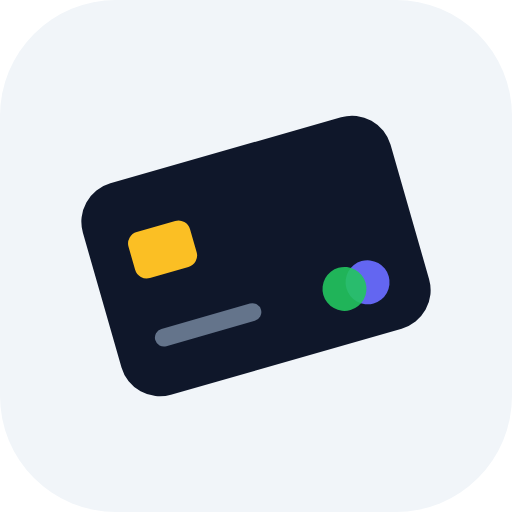
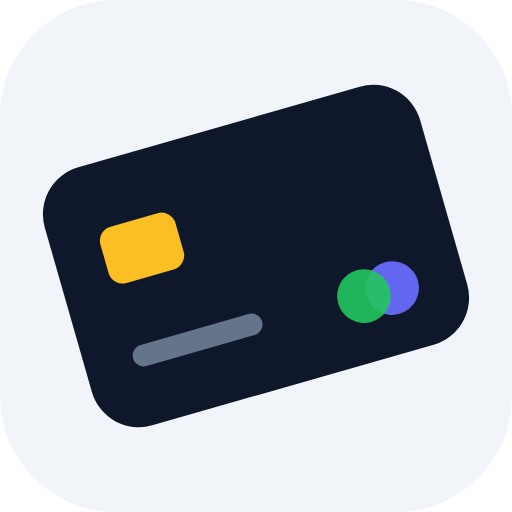
Ícone: cartão maior, preenchendo melhor o quadro
Claude-Session: https://claude.ai/code/session_01Ppk8Xpu5b38pj4Ww3rEKpo

Changed region(s): [[0.0625, 0.1562, 0.9375, 0.8438]]

diff --git a/sw.js b/sw.js
@@ -2,7 +2,7 @@
 // - App shell: pré-cache; HTML/JS/CSS usam "rede primeiro" para que atualizações cheguem na hora.
 // - Demais arquivos estáticos e CDNs (fontes, Firebase SDK): "stale-while-revalidate".
 // - Chamadas de API (Firestore, Auth, Groq) nunca passam pelo cache.
-const CACHE_NAME = 'gestor-v21';
+const CACHE_NAME = 'gestor-v22';
 const SHELL = [
     './',
     './index.html',
